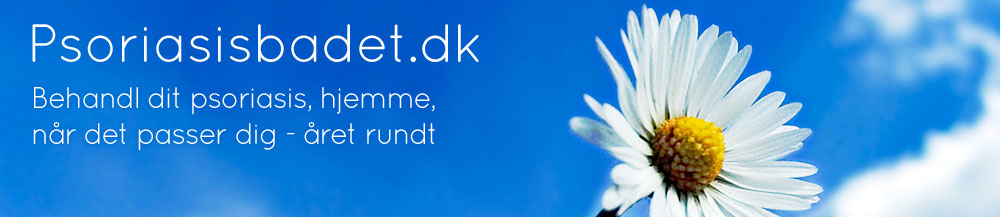
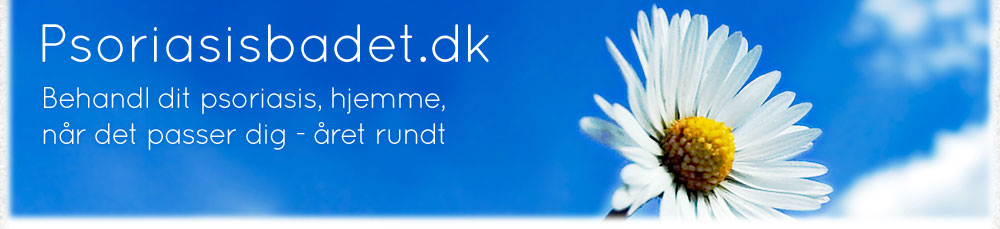
Improved psoriasisbadet design

diff --git a/style/psoriasisbadet/css/main.css b/style/psoriasisbadet/css/main.css
@@ -7,9 +7,9 @@ body
 
 div.layout
 {
-	background: #fff;
-	box-shadow: 0 0 20px #fff, 0 0 10px #fff;
-	width: 980px;
+	background: #fff url('../gfx/bg.jpg');
+	/*box-shadow: 0 0 20px #fff, 0 0 10px #fff;*/
+	width: 1000px;
 	margin: 0 auto;
 }
 
@@ -22,7 +22,7 @@ div.layout_content
 
 div.layout_header
 {
-	height: 217px;
+	height: 229px;
 	background: #fff url('../gfx/header_flower.jpg');
 /*    background: -webkit-gradient(linear,0 0,0 bottom,from(#eeeeee),to(#ffffff));
     background: -moz-linear-gradient(#eeeeee, #ffffff);
@@ -49,8 +49,10 @@ p.layout_logo
 
 p.layout_designed
 {
+	background: transparent url('../gfx/bg_bottom.jpg') center top no-repeat;
 	text-align: center;
-	margin: 40px 0;
+	margin: 0;
+	padding: 40px 0;
 }
 
 p.layout_designed a
@@ -78,7 +80,7 @@ div.layout_navigation ul
 	height: 30px;
 	font-size: 0;
 	position: absolute;
-	margin-top: -50px;
+	margin-top: -60px;
 }
 
 div.layout_navigation li
@@ -103,6 +105,7 @@ div.layout_navigation a span
 	display: inline-block;
 	height: 30px;	
 	background: #0270cb;
+	background: rgba(2, 80, 175, .35);
 	border-radius: 5px;
 	padding: 0 10px;
 }
